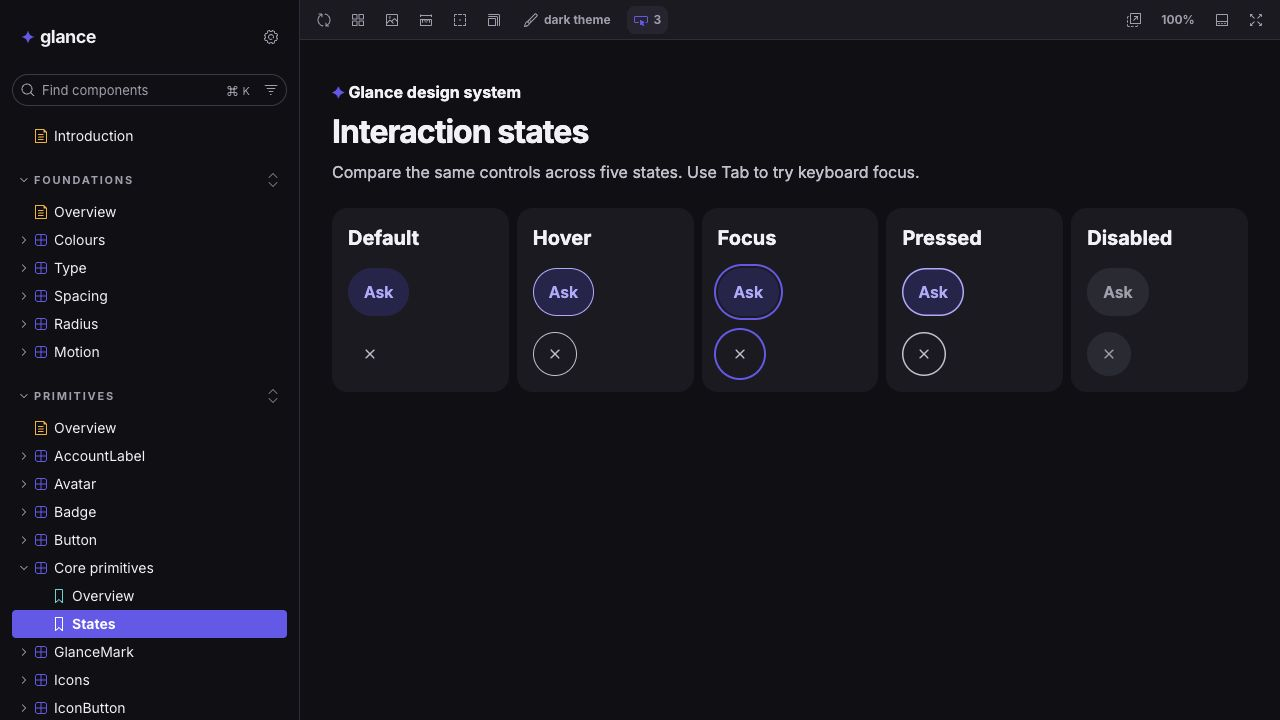
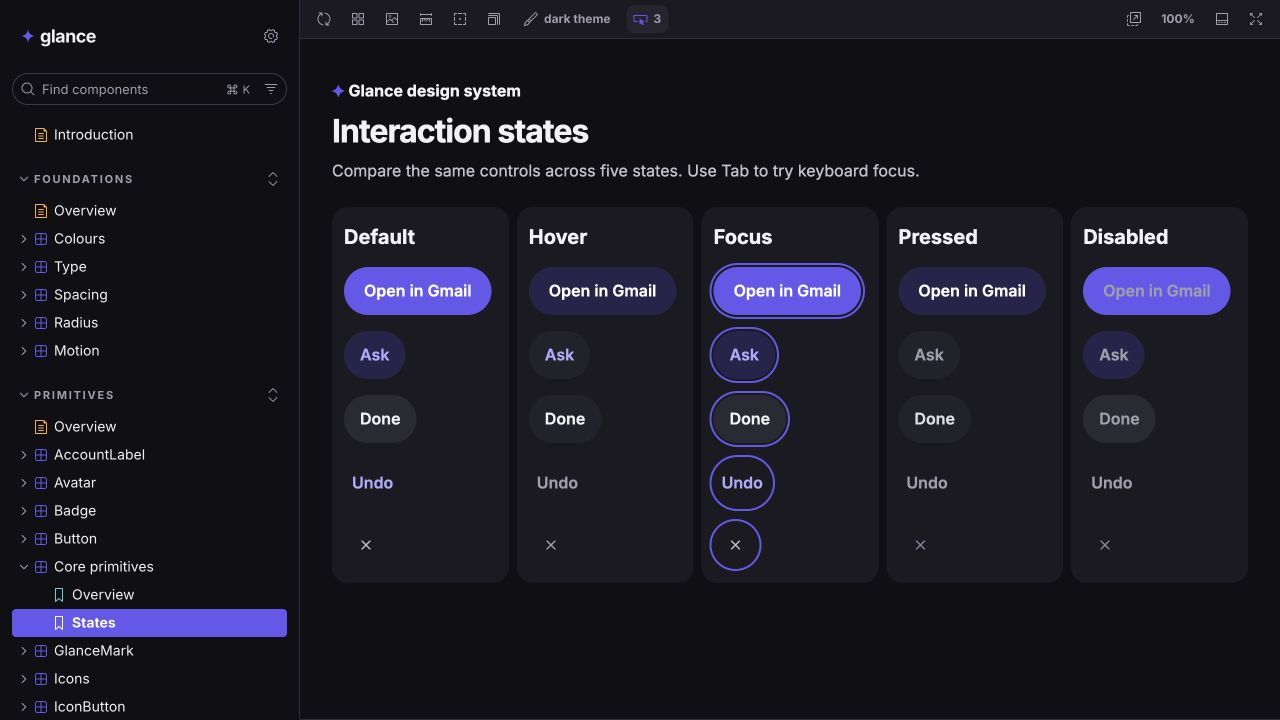
fix(ds): use colour feedback and add touch-size buttons

diff --git a/src/design-system/components/Button/Button.module.css b/src/design-system/components/Button/Button.module.css
@@ -13,21 +13,41 @@
 }
 .primary {
   padding-inline: var(--space-20);
-  background: var(--color-brand);
-  color: var(--color-on-brand);
+  --control-fill: var(--color-brand);
+  --control-ink: var(--color-on-brand);
+  /* The palette supplies one darker brand fill for hover and press. */
+  --hover-fill: light-dark(var(--color-brand-text), var(--color-brand-tint));
 }
 .tint {
-  background: var(--color-brand-tint);
-  color: var(--color-brand-text);
+  --control-fill: var(--color-brand-tint);
+  --control-ink: var(--color-brand-text);
+  --pressed-ink: light-dark(var(--color-brand-text), var(--color-text-muted));
 }
 .neutral {
-  background: var(--color-surface-sunken);
-  color: var(--color-text);
+  --control-fill: var(--color-surface-sunken);
+  --control-ink: var(--color-text);
+  --pressed-ink: light-dark(var(--color-text), var(--color-text-body));
+}
+.tint,
+.neutral {
+  --hover-fill: light-dark(
+    var(--color-border-card),
+    var(--color-surface-muted)
+  );
+  --pressed-fill: light-dark(
+    var(--color-border-strong),
+    var(--color-surface-muted)
+  );
 }
 .text {
   padding-inline: var(--space-8);
-  background: transparent;
-  color: var(--color-brand-text);
+  --control-ink: var(--color-brand-text);
+  --hover-ink: light-dark(var(--color-text-secondary), var(--color-text-muted));
+  --pressed-ink: light-dark(var(--color-text-body), var(--color-text-muted));
+}
+.touch {
+  min-block-size: var(--size-touch);
+  padding-block: var(--space-8);
 }
 .compact {
   min-block-size: var(--size-touch-compact);

diff --git a/src/design-system/components/Control.module.css b/src/design-system/components/Control.module.css
@@ -3,20 +3,22 @@
   font-family: var(--font-family);
   font-weight: var(--font-weight-semibold);
   cursor: pointer;
+  color: var(--control-ink);
+  background-color: var(--control-fill, transparent);
   transition:
     background-color var(--duration-fast) var(--ease-standard),
-    color var(--duration-fast) var(--ease-standard),
-    box-shadow var(--duration-fast) var(--ease-standard);
+    color var(--duration-fast) var(--ease-standard);
 }
 .control:not(:disabled, [aria-disabled='true']):hover {
-  box-shadow:
-    inset 0 0 0 var(--border-hairline) currentColor,
-    var(--control-shadow, 0 0 transparent);
+  color: var(--hover-ink, var(--control-ink));
+  background-color: var(--hover-fill, var(--control-fill, transparent));
 }
 .control:not(:disabled, [aria-disabled='true']):active {
-  box-shadow:
-    inset 0 0 0 var(--border-selected) currentColor,
-    var(--control-shadow, 0 0 transparent);
+  color: var(--pressed-ink, var(--hover-ink, var(--control-ink)));
+  background-color: var(
+    --pressed-fill,
+    var(--hover-fill, var(--control-fill, transparent))
+  );
 }
 .control:focus-visible {
   outline: var(--space-2) solid var(--color-brand);
@@ -26,6 +28,8 @@
 .control[aria-disabled='true'] {
   cursor: not-allowed;
   color: var(--color-text-muted);
-  background: var(--color-surface-sunken);
-  box-shadow: none;
+}
+.control:disabled svg,
+.control[aria-disabled='true'] svg {
+  color: var(--color-icon-muted);
 }

diff --git a/src/design-system/components/CorePrimitives.stories.tsx b/src/design-system/components/CorePrimitives.stories.tsx
@@ -91,6 +91,13 @@ export const Overview: StoryObj<typeof meta> = { render: () => <Gallery /> };
 
 const states = ['Default', 'Hover', 'Focus', 'Pressed', 'Disabled'] as const;
 
+const stateButtons = [
+  { variant: 'primary', label: 'Open in Gmail' },
+  { variant: 'tint', label: 'Ask' },
+  { variant: 'neutral', label: 'Done' },
+  { variant: 'text', label: 'Undo' },
+] as const;
+
 function InteractionStates() {
   const [action, setAction] = useState('');
   return (
@@ -102,14 +109,17 @@ function InteractionStates() {
         {states.map((state) => (
           <section key={state} className={styles.state}>
             <h2>{state}</h2>
-            <Button
-              data-specimen={state}
-              variant="tint"
-              disabled={state === 'Disabled'}
-              onClick={() => setAction(state + ' Ask')}
-            >
-              Ask
-            </Button>
+            {stateButtons.map(({ variant, label }) => (
+              <Button
+                key={variant}
+                data-specimen={state}
+                variant={variant}
+                disabled={state === 'Disabled'}
+                onClick={() => setAction(state + ' ' + label)}
+              >
+                {label}
+              </Button>
+            ))}
             <IconButton
               data-specimen={state}
               icon="close"

diff --git a/src/design-system/components/SegmentedControl/SegmentedControl.module.css b/src/design-system/components/SegmentedControl/SegmentedControl.module.css
@@ -12,18 +12,21 @@
   padding: var(--space-8) var(--space-16);
   border: 0;
   border-radius: var(--radius-pill);
-  color: var(--color-text-muted);
-  background: transparent;
+  --control-ink: var(--color-text-muted);
+  --hover-ink: light-dark(var(--color-text-secondary), var(--color-text-muted));
+  --pressed-ink: light-dark(var(--color-text-body), var(--color-text-muted));
+  --hover-fill: light-dark(transparent, var(--color-surface-muted));
+  --pressed-fill: light-dark(transparent, var(--color-surface));
   line-height: var(--line-height-14);
   font-size: var(--font-size-14);
   overflow-wrap: anywhere;
 }
 .tab[aria-selected='true'] {
-  --control-shadow: var(--shadow-tab);
-  background: var(--color-surface);
-  color: var(--color-text);
-  box-shadow: var(--control-shadow);
-}
-.tab:disabled {
-  color: var(--color-icon-muted);
+  --control-fill: var(--color-surface);
+  --control-ink: var(--color-text);
+  --hover-fill: light-dark(var(--color-surface-muted), var(--color-surface));
+  --pressed-fill: light-dark(var(--color-surface-sunken), var(--color-surface));
+  --hover-ink: light-dark(var(--color-text), var(--color-text-body));
+  --pressed-ink: light-dark(var(--color-text), var(--color-text-secondary));
+  box-shadow: var(--shadow-tab);
 }

diff --git a/src/design-system/components/Button/Button.stories.tsx b/src/design-system/components/Button/Button.stories.tsx
@@ -20,7 +20,7 @@ const meta = {
       control: 'inline-radio',
       options: ['primary', 'tint', 'neutral', 'text'],
     },
-    size: { control: 'inline-radio', options: ['default', 'compact'] },
+    size: { control: 'inline-radio', options: ['default', 'touch', 'compact'] },
   },
 } satisfies Meta<typeof Button>;
 export default meta;
@@ -34,6 +34,9 @@ export const Neutral: Story = {
 };
 export const Text: Story = {
   args: { variant: 'text', size: 'compact', children: 'Undo' },
+};
+export const Touch: Story = {
+  args: { size: 'touch', variant: 'neutral', children: 'Done' },
 };
 export const ExternalLink: Story = {
   args: {

diff --git a/src/design-system/components/Button/Button.tsx b/src/design-system/components/Button/Button.tsx
@@ -10,7 +10,7 @@ import styles from './Button.module.css';
 interface Appearance {
   children: ReactNode;
   variant?: 'primary' | 'tint' | 'neutral' | 'text';
-  size?: 'default' | 'compact';
+  size?: 'default' | 'touch' | 'compact';
   leadingIcon?: IconName;
   trailingIcon?: IconName;
   disabled?: boolean;
@@ -42,7 +42,7 @@ export function Button({
     control.control,
     styles.button,
     styles[variant],
-    size === 'compact' && styles.compact,
+    size !== 'default' && styles[size],
     className,
   ]
     .filter(Boolean)

diff --git a/src/design-system/components/IconButton/IconButton.module.css b/src/design-system/components/IconButton/IconButton.module.css
@@ -7,8 +7,9 @@
   padding: 0;
   border: 0;
   border-radius: var(--radius-pill);
-  background: transparent;
-  color: var(--color-text-secondary);
+  --control-ink: var(--color-text-secondary);
+  --hover-ink: light-dark(var(--color-text-body), var(--color-text-muted));
+  --pressed-ink: light-dark(var(--color-text), var(--color-icon-muted));
 }
 .compact {
   inline-size: var(--size-touch-compact);

diff --git a/src/design-system/components/CorePrimitives.stories.module.css b/src/design-system/components/CorePrimitives.stories.module.css
@@ -19,7 +19,7 @@
   justify-items: start;
   gap: var(--space-16);
   background: var(--color-surface);
-  padding: var(--space-16);
+  padding: var(--space-16) var(--space-12);
   border-radius: var(--radius-panel);
 }
 .group {

diff --git a/docs/design-system.md b/docs/design-system.md
@@ -64,12 +64,12 @@ Text styles are utility components or CSS classes, not one-off font sizes:
 
 ### Button
 
-| Prop       | Values                                                                                                         |
-| ---------- | -------------------------------------------------------------------------------------------------------------- |
-| `variant`  | `primary` (brand fill, one per view) · `tint` (brand tint) · `neutral` (sunken) · `text` (brand text, no fill) |
-| `size`     | `default` (48) · `compact` (40, toolbars and tab groups)                                                       |
-| `icon`     | optional leading or trailing icon (16)                                                                         |
-| `external` | shows the external-link icon (for "Open in Gmail")                                                             |
+| Prop       | Values                                                                                                                   |
+| ---------- | ------------------------------------------------------------------------------------------------------------------------ |
+| `variant`  | `primary` (brand fill, one per view) · `tint` (brand tint) · `neutral` (sunken) · `text` (brand text, no fill)           |
+| `size`     | `default` (48) · `touch` (44, selected by phone layouts for secondary buttons) · `compact` (40, toolbars and tab groups) |
+| `icon`     | optional leading or trailing icon (16)                                                                                   |
+| `external` | shows the external-link icon (for "Open in Gmail")                                                                       |
 
 **States:** default, hover, focus-visible (2 px brand outline, 2 px offset), pressed, disabled.
 
